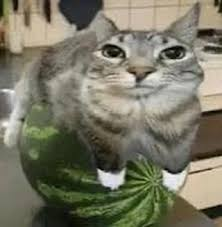
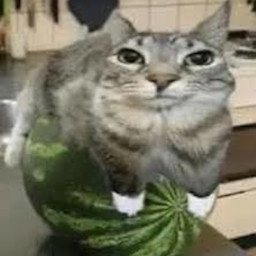
add dumb larry, add spawn images

diff --git a/commands/larry-debug.js b/commands/larry-debug.js
@@ -9,7 +9,7 @@ module.exports = {
 		.setDescription('larry.'),
 	async execute(interaction) {
         const key = randomLarry()
-		await interaction.reply(`${data[key].emoji} ${key} has... NOT spawned.`);
+		await interaction.reply(`${data[key].emoji} ${key} has... NOT spawned[.](${data[key].icon_url})`);
 	},
 };
 
